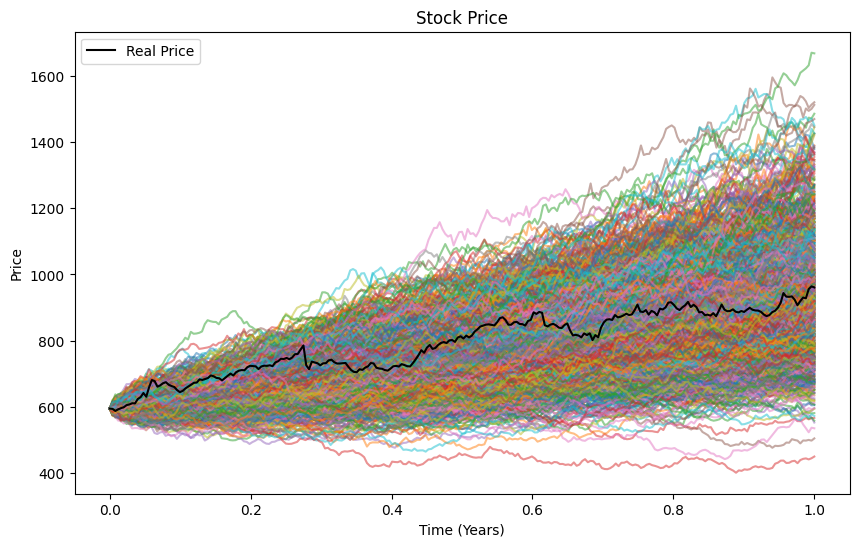
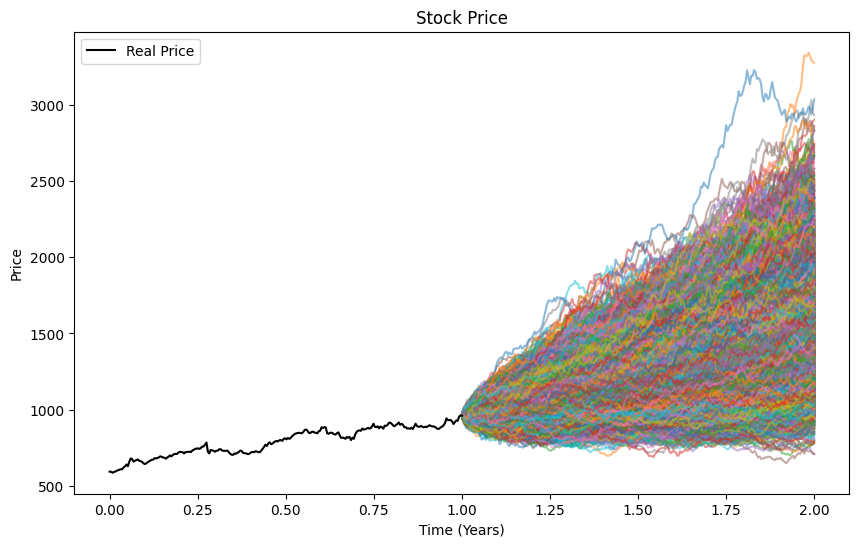
Portfolio Update

diff --git a/index.html b/index.html
@@ -63,11 +63,12 @@
     <div class="container">
       <h1 class="title">Portfolio</h1>
       <hr />
+
       <div class="card">
         <div class="card-content">
           <div class="media">
             <div class="media-content">
-              <p class="title is-4">Correlated Geometric Brownian Motion</p>
+              <p class="title is-4">Simulating Stock Prices with a Geometric Brownian Motion Model</p>
             </div>
           </div>
           <div class="content">
@@ -83,11 +84,12 @@
           </div>
         </div>
       </div>
+      
       <div class="card card-gap">
         <div class="card-content">
           <div class="media">
             <div class="media-content">
-              <p class="title is-4">Athlete CMJ Performance Dashboard Development</p>
+              <p class="title is-4">Athlete Countermovement Jump Performance Dashboard</p>
             </div>
           </div>
           <div class="content">
@@ -106,6 +108,7 @@
           </div>
         </div>
       </div>
+
       <div class="card card-gap">
         <div class="card-content">
           <div class="media">
@@ -127,26 +130,28 @@
           </div>
         </div>
       </div>
+
       <div class="card card-gap">
         <div class="card-content">
           <div class="media">
             <div class="media-content">
-              <p class="title is-4">Investigating the Correlation Between Strength and Power Metrics in American Football</p>
+              <p class="title is-4">Athlete Countermovement Jump Performance Analysis</p>
             </div>
           </div>
           <div class="content">
             <p>
-              Our project objectives were to analyze existing data collected on collegiate football athletes 
-              to determine if any relationships between athlete's strength and power existed. Analysis and conclusions 
-              would be used to determine training efficasy between player groups. The creation of a simple SQL database 
-              was also part of this project. Findings and conclusions were presented at the conclusion of the project.
+              Long term project involving the indepth analysis of countermovement jump performance in athletes across multiple
+              sports. Advanced data mining methods were used, including latent factor analysis, to break down and simplify
+              the vast amount of data in order to better understand the metrics and trends in an athlete's jump performance.
+              Findings were presented to stakeholders and used to improve athlete training plans.
             </p>
           </div>
           <div class="code-link">
-            <a href="https://github.com/isaacdclark02/isaacdclark02.github.io/blob/main/docs/Football%20Strength%20vs%20Power%20Analysis.ipynb.md">Project Code</a>
+            <a href="https://github.com/isaacdclark02/isaacdclark02.github.io/blob/main/docs/CMJ%20Performance%20Dashboard.ipynb.md">Project Code</a>
           </div>
         </div>
       </div>
+
       <div class="card card-gap">
         <div class="card-content">
           <div class="media">
@@ -167,6 +172,28 @@
           </div>
         </div>
       </div>
+
+      <div class="card card-gap">
+        <div class="card-content">
+          <div class="media">
+            <div class="media-content">
+              <p class="title is-4">Investigating the Correlation Between Strength and Power Metrics in American Football Athletes</p>
+            </div>
+          </div>
+          <div class="content">
+            <p>
+              Our project objectives were to analyze existing data collected on collegiate football athletes 
+              to determine if any relationships between athlete's strength and power existed. Analysis and conclusions 
+              would be used to determine training efficasy between player groups. The creation of a simple SQL database 
+              was also part of this project. Findings and conclusions were presented at the conclusion of the project.
+            </p>
+          </div>
+          <div class="code-link">
+            <a href="https://github.com/isaacdclark02/isaacdclark02.github.io/blob/main/docs/Football%20Strength%20vs%20Power%20Analysis.ipynb.md">Project Code</a>
+          </div>
+        </div>
+      </div>
+
       <div class="card card-gap">
         <div class="card-content">
           <div class="media">
@@ -186,6 +213,7 @@
           </div>
         </div>
       </div>
+      
       <div class="card card-gap">
         <div class="card-content">
           <div class="media">

diff --git a/docs/Finance Project.py.md b/docs/Finance Project.py.md
@@ -26,17 +26,16 @@ def simulated_prices(mu, sqrt_A, S_0, T, dt, simulations):
 
 T = 1
 dt = 1 / 252
-simulations = 1000
-S_0 = data.iloc[0].values
+simulations = 10000
+S_0 = data.iloc[-1].values
 
 trajectories = simulated_prices(mu.values, sqrt_A, S_0, T, dt, simulations)
 
-time = np.linspace(0, T, int(T / dt) + 1)
 for i, ticker in enumerate(data.columns):
     plt.figure(figsize=(10, 6))
-    plt.plot(time, trajectories[:, i, :], alpha=0.5)
+    plt.plot(np.linspace(1, T+1, int(T / dt) + 1), trajectories[:, i, :], alpha=0.5)
     plt.plot(np.linspace(0, T, len(data)), data[ticker], label='Real Price', color='black')
-    plt.title(f'{ticker} Stock Price')
+    plt.title('Stock Price')
     plt.xlabel('Time (Years)')
     plt.ylabel('Price')
     plt.legend()
